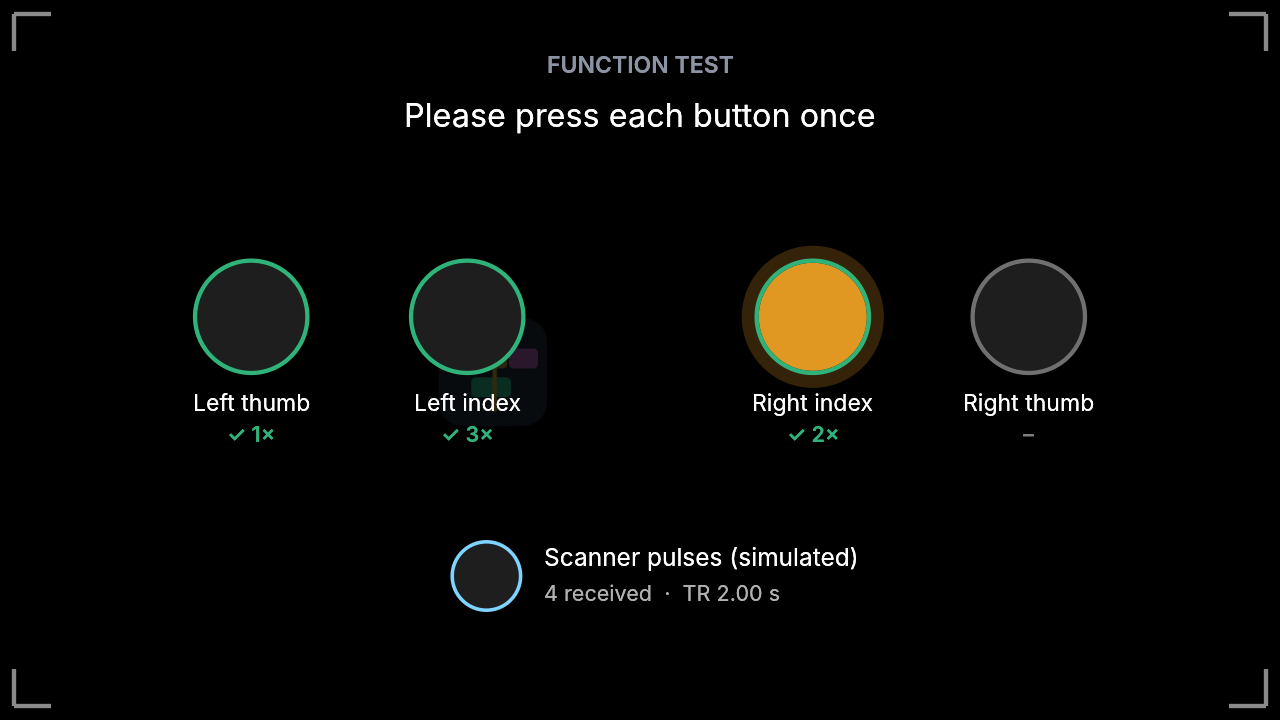
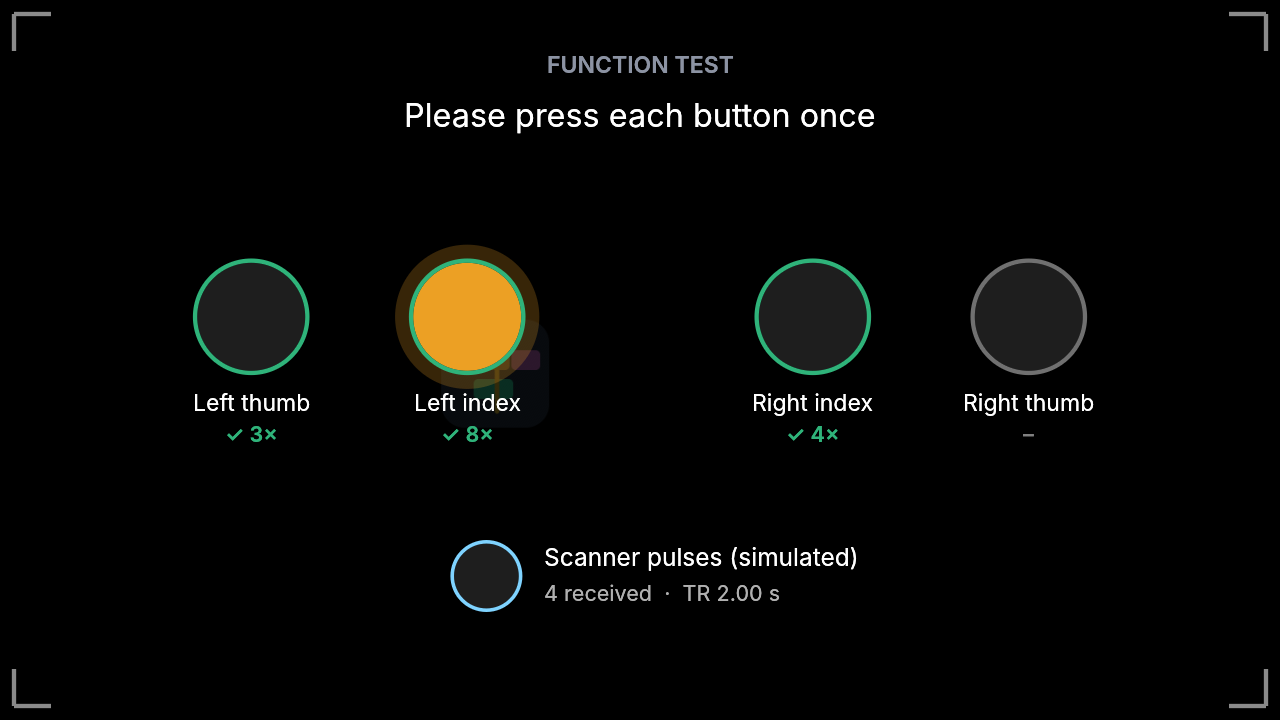
Release 0.5.3: participant screen drawn together with the main window
Both in the function test and during a run, the window without the focus
still froze on some systems: egui ignores repaint requests for a
separately scheduled ("deferred") viewport that is not active – an open
egui bug (emilk/egui#4945) – so the ticker / run clock could not wake it.

The participant screen and the function-test screen are now *immediate*
viewports: they are drawn in the same pass as the main window, so both
windows always update together, whichever has the focus. The run clock
and the test ticker wake the main window (on every stimulus change, at
the control-room refresh rate, and as a 0.25-s safety net). Checked
under a real window manager with the focus on either window: both the
participant window and the mirror keep changing, in the function test
and in a simulated run.

eframe can't screenshot immediate viewports, so the documentation
scenes `participant` and `test_participant` paint the same picture over
the main window (run them with --size 1280x720). Screenshots updated.

Claude-Session: https://claude.ai/code/session_01DjG5YSPbhFReU8LE9xNKWw

diff --git a/src/selftest.rs b/src/selftest.rs
@@ -304,12 +304,11 @@ fn ticker(ctx: Context, state: Arc<Mutex<TestState>>, stop: Arc<AtomicBool>) -> 
     std::thread::Builder::new()
         .name("function-test-ticker".into())
         .spawn(move || {
-            let screen = ViewportId::from_hash_of(TEST_SCREEN_ID);
             while !stop.load(Ordering::Relaxed) {
                 if let Ok(mut s) = state.lock() {
                     s.poll();
                 }
-                ctx.request_repaint_of(screen);
+                // the test screen is drawn in the main window's pass, so this updates both
                 ctx.request_repaint_of(ViewportId::ROOT);
                 std::thread::sleep(std::time::Duration::from_millis(16));
             }
@@ -342,10 +341,7 @@ impl TestSession {
     pub fn new(ctx: &Context, hw: Hardware, settings: TestSettings) -> Self {
         let builder = screen_builder("Function test – participant screen".into(), settings.fullscreen, settings.screen, settings.window_size);
         let c = ctx.clone();
-        let wake = Arc::new(move || {
-            c.request_repaint_of(ViewportId::from_hash_of(TEST_SCREEN_ID));
-            c.request_repaint_of(ViewportId::ROOT);
-        });
+        let wake = Arc::new(move || c.request_repaint_of(ViewportId::ROOT));
         let state = Arc::new(Mutex::new(TestState::new(hw, settings, wake)));
         let size = 128;
         let img = egui::ColorImage::from_rgba_unmultiplied([size, size], &crate::placeholders::app_icon_rgba(size as u32));
@@ -355,15 +351,18 @@ impl TestSession {
         TestSession { state, builder, closed: Arc::new(AtomicBool::new(false)), logo, ticker_stop, ticker }
     }
 
-    /// The participant's test screen (call every frame while the test runs).
+    /// The participant's test screen (call every frame while the test runs). An *immediate*
+    /// viewport: drawn in the same pass as the main window, so both always update together,
+    /// whichever has the focus (separately scheduled "deferred" viewports froze in the background
+    /// on some systems – egui issue #4945).
     pub fn show_screen(&self, ctx: &Context) {
         if self.closed.load(Ordering::Relaxed) {
             return;
         }
-        let state = self.state.clone();
-        let closed = self.closed.clone();
+        let state = &self.state;
+        let closed = &self.closed;
         let logo = self.logo.clone();
-        ctx.show_viewport_deferred(ViewportId::from_hash_of(TEST_SCREEN_ID), self.builder.clone(), move |ui, _class| {
+        ctx.show_viewport_immediate(ViewportId::from_hash_of(TEST_SCREEN_ID), self.builder.clone(), |ui, _class| {
             let ctx = ui.ctx().clone();
             let Ok(mut s) = state.lock() else { return };
             route(&ctx, &mut s);
@@ -377,8 +376,14 @@ impl TestSession {
             s.frame_drawn();
             paint_test(ui.painter(), r, &s, logo.as_ref());
             ctx.set_cursor_icon(egui::CursorIcon::None);
-            // the ticker thread wakes this window ~60× a second, whether or not it has the focus
         });
+    }
+
+    /// The participant's test screen painted into `rect` (used for documentation screenshots).
+    pub fn paint_full(&self, p: &egui::Painter, rect: Rect) {
+        if let Ok(s) = self.state.lock() {
+            paint_test(p, rect, &s, self.logo.as_ref());
+        }
     }
 
     /// The operator's view in the main window. Returns true when the test should end.
@@ -509,7 +514,6 @@ mod tests {
         let session = TestSession::new(&ctx, Hardware::default(), TestSettings::default());
         session.state.lock().unwrap().key("a", now());
         std::thread::sleep(std::time::Duration::from_millis(120));
-        assert!(ctx.has_requested_repaint_for(&ViewportId::from_hash_of(TEST_SCREEN_ID)));
         assert!(ctx.has_requested_repaint_for(&ViewportId::ROOT));
         assert_eq!(session.state.lock().unwrap().presses[0].1, 1);
         drop(session); // stops and joins the ticker

diff --git a/src/controlroom.rs b/src/controlroom.rs
@@ -101,11 +101,13 @@ fn clock_thread(ctx: Context, ctl: SharedRun, stop: Arc<AtomicBool>) -> Option<s
                     (c.phase() == Phase::Done, c.stimulus_version, c.state.version, c.settings.control_refresh_ms)
                 };
                 let t = now();
+                // the participant screen is drawn in the control room's pass (immediate viewport),
+                // so waking the main window updates both
                 if stim != last_stim {
                     last_stim = stim;
                     last_part = t;
+                    ctx.request_repaint_of(ViewportId::ROOT);
                     ctx.request_repaint_of(pid);
-                    ctx.request_repaint_of(ViewportId::ROOT); // the live mirror
                     last_cr = t;
                 }
                 if version != last_version && t - last_cr >= 0.03 {
@@ -119,7 +121,7 @@ fn clock_thread(ctx: Context, ctl: SharedRun, stop: Arc<AtomicBool>) -> Option<s
                 }
                 if t - last_part >= 0.25 {
                     last_part = t;
-                    ctx.request_repaint_of(pid);
+                    ctx.request_repaint_of(ViewportId::ROOT);
                 }
                 if done {
                     ctx.request_repaint_of(pid);
@@ -150,13 +152,18 @@ impl RunSession {
     }
 
     /// Show the participant window (call every frame while the session exists).
+    ///
+    /// It is an *immediate* viewport: drawn in the same pass as the control room, so both windows
+    /// always update together, whichever of them has the focus. (With a separately scheduled
+    /// "deferred" viewport, egui ignores repaint requests for the window that is not active on some
+    /// systems – the background window froze until it was clicked: egui issue #4945.)
     pub fn show_participant(&self, ctx: &Context) {
         if self.participant_closed.load(Ordering::Relaxed) {
             return;
         }
-        let ctl = self.ctl.clone();
-        let closed = self.participant_closed.clone();
-        ctx.show_viewport_deferred(ViewportId::from_hash_of(PARTICIPANT_ID), self.builder.clone(), move |ui, _class| {
+        let ctl = &self.ctl;
+        let closed = &self.participant_closed;
+        ctx.show_viewport_immediate(ViewportId::from_hash_of(PARTICIPANT_ID), self.builder.clone(), |ui, _class| {
             let ctx = ui.ctx().clone();
             stimulus::poll(&ctx);
             let Ok(mut c) = ctl.lock() else { return };
@@ -172,8 +179,6 @@ impl RunSession {
             c.screen_size = Some((r.width(), r.height()));
             paint_participant(ui.painter(), r, &c, false);
             ctx.set_cursor_icon(egui::CursorIcon::None);
-            // the run clock wakes this window on every stimulus change; this is only a safety net
-            ctx.request_repaint_after(std::time::Duration::from_millis(250));
         });
     }
 }

diff --git a/src/app.rs b/src/app.rs
@@ -1497,6 +1497,7 @@ impl eframe::App for App {
                 ctx.request_repaint_after(std::time::Duration::from_millis(500));
             }
         }
+        self.shot_overlay(&ctx);
         self.demo_step(&ctx);
     }
 
@@ -1509,6 +1510,26 @@ impl eframe::App for App {
 // Scripted screenshots for the documentation (`--screenshot out.png --scene <name>`)
 // =============================================================================
 impl App {
+    /// Screenshot scenes of the participant's screen: paint exactly what it shows over the whole
+    /// main window (same painter, same reference height), so the main window can be captured.
+    /// Use with `--size 1280x720` to get the participant window's size.
+    fn shot_overlay(&mut self, ctx: &Context) {
+        let Some(scene) = self.shot.as_ref().map(|p| p.scene.clone()) else { return };
+        if !(scene == "participant" || scene == "test_participant") {
+            return;
+        }
+        let rect = ctx.content_rect();
+        let painter = ctx.layer_painter(egui::LayerId::new(egui::Order::Debug, egui::Id::new("shot_overlay")));
+        if let Some(s) = &self.run {
+            if let Ok(c) = s.ctl.lock() {
+                crate::controlroom::paint_participant(&painter, rect, &c, false);
+            }
+        }
+        if let Some(t) = &self.test {
+            t.paint_full(&painter, rect);
+        }
+    }
+
     fn demo_step(&mut self, ctx: &Context) {
         let (frame, scene, done_flag, out_path) = {
             let Some(plan) = self.shot.as_mut() else { return };
@@ -1684,19 +1705,9 @@ impl App {
                 let _ = buf.save(&out);
                 done.store(true, std::sync::atomic::Ordering::Relaxed);
             };
-            if scene == "test_participant" {
-                ctx.send_viewport_cmd_to(
-                    egui::ViewportId::from_hash_of(crate::selftest::TEST_SCREEN_ID),
-                    egui::ViewportCommand::Screenshot(egui::ScreenshotCallback::new(cb)),
-                );
-            } else if scene.starts_with("participant") {
-                ctx.send_viewport_cmd_to(
-                    egui::ViewportId::from_hash_of(crate::controlroom::PARTICIPANT_ID),
-                    egui::ViewportCommand::Screenshot(egui::ScreenshotCallback::new(cb)),
-                );
-            } else {
-                ctx.request_screenshot(cb);
-            }
+            // (the participant screens are immediate viewports, which eframe can't screenshot;
+            // for those scenes the main window shows the very same picture – see `shot_overlay`)
+            ctx.request_screenshot(cb);
         }
     }
 }

diff --git a/README.md b/README.md
@@ -218,7 +218,7 @@ Paradigms are saved as `*.paradigm.json` (picture paths stored relative to the f
 | ![](docs/screenshots/14_blurred_previews.png) Blurred previews | |
 
 The screenshots are generated by the app itself, e.g.
-`paradigmshift --screenshot out.png --scene editor` (scenes: `editor`, `templates`, `bulk`, `quick`,
+`paradigmshift --screenshot out.png --scene editor` (the participant scenes with `--size 1280x720`; scenes: `editor`, `templates`, `bulk`, `quick`,
 `hardware`, `run_dialog`, `control`, `participant`, `find`, `prefs`, `hariri`, `mid`, `blur`, `panels`,
 `control_small`, `participant_small`, `present`, `present_run`, `test`, `test_participant`). For the run scenes, `PARADIGMSHIFT_DEMO_SIZE=WxH`,
 `PARADIGMSHIFT_DEMO_EXAMPLE=<example>` and `PARADIGMSHIFT_DEMO_TIME=<seconds>` set the participant window size,
